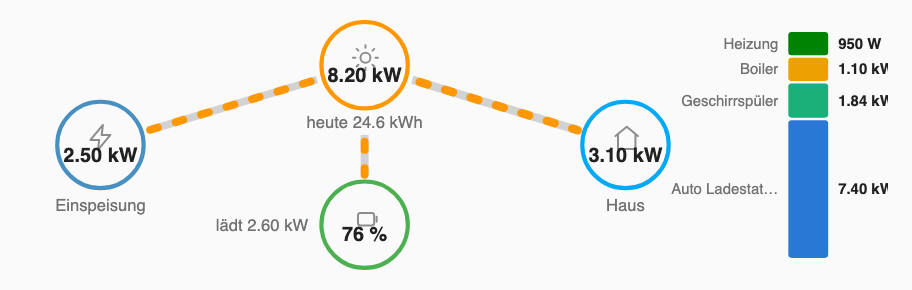
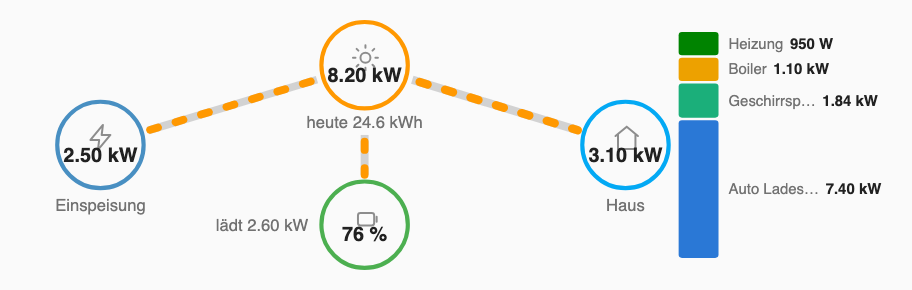
v0.3.1: consumer column bar left, name + value together on the right

Changed region(s): [[0.7368, 0.0931, 0.9825, 0.9]]

diff --git a/compact-power-flow-card.js b/compact-power-flow-card.js
@@ -35,7 +35,7 @@
  *     daily_yield: "today" / grid_import: "import"
  */
 
-const VERSION = "0.3.0";
+const VERSION = "0.3.1";
 
 // Flows below this many watts count as "not flowing".
 const THRESHOLD = 25;
@@ -54,7 +54,7 @@ const NODE = {
 };
 
 // Consumer column geometry (right of the house node).
-const COL = { x: 460, w: 24, top: 12, bottom: 148, gap: 1.5, minSeg: 14, rx: 2 };
+const COL = { x: 394, w: 24, top: 12, bottom: 148, gap: 1.5, minSeg: 14, rx: 2 };
 
 // Flow definitions; path d strings are generated from node coordinates.
 // Direction of travel = path direction.
@@ -394,15 +394,14 @@ class CompactPowerFlowCard extends HTMLElement {
       const h = heights[i];
       const top = yBottom - h;
       const cy = top + h / 2 + 3; // text baseline ≈ vertical center
-      const name = c.name.length > 14 ? `${c.name.slice(0, 13)}…` : c.name;
+      const name = c.name.length > 11 ? `${c.name.slice(0, 10)}…` : c.name;
       const color = palette[i % palette.length];
       parts.push(`
         <rect class="seg" data-entity="${c.id}" x="${COL.x}" y="${top.toFixed(1)}"
               width="${COL.w}" height="${h.toFixed(1)}" rx="${COL.rx}" fill="${color}"/>
-        <text class="seg-name" data-entity="${c.id}" x="${COL.x - 6}" y="${cy.toFixed(1)}"
-              text-anchor="end">${name}</text>
-        <text class="seg-val" data-entity="${c.id}" x="${COL.x + COL.w + 6}" y="${cy.toFixed(1)}"
-              text-anchor="start">${this._fmtW(c.watts)}</text>`);
+        <text data-entity="${c.id}" x="${COL.x + COL.w + 6}" y="${cy.toFixed(1)}"
+              text-anchor="start"><tspan class="seg-name" data-entity="${c.id}">${name}</tspan><tspan
+              class="seg-val" data-entity="${c.id}" dx="4">${this._fmtW(c.watts)}</tspan></text>`);
       yBottom = top - COL.gap;
     });
     g.innerHTML = parts.join("");
